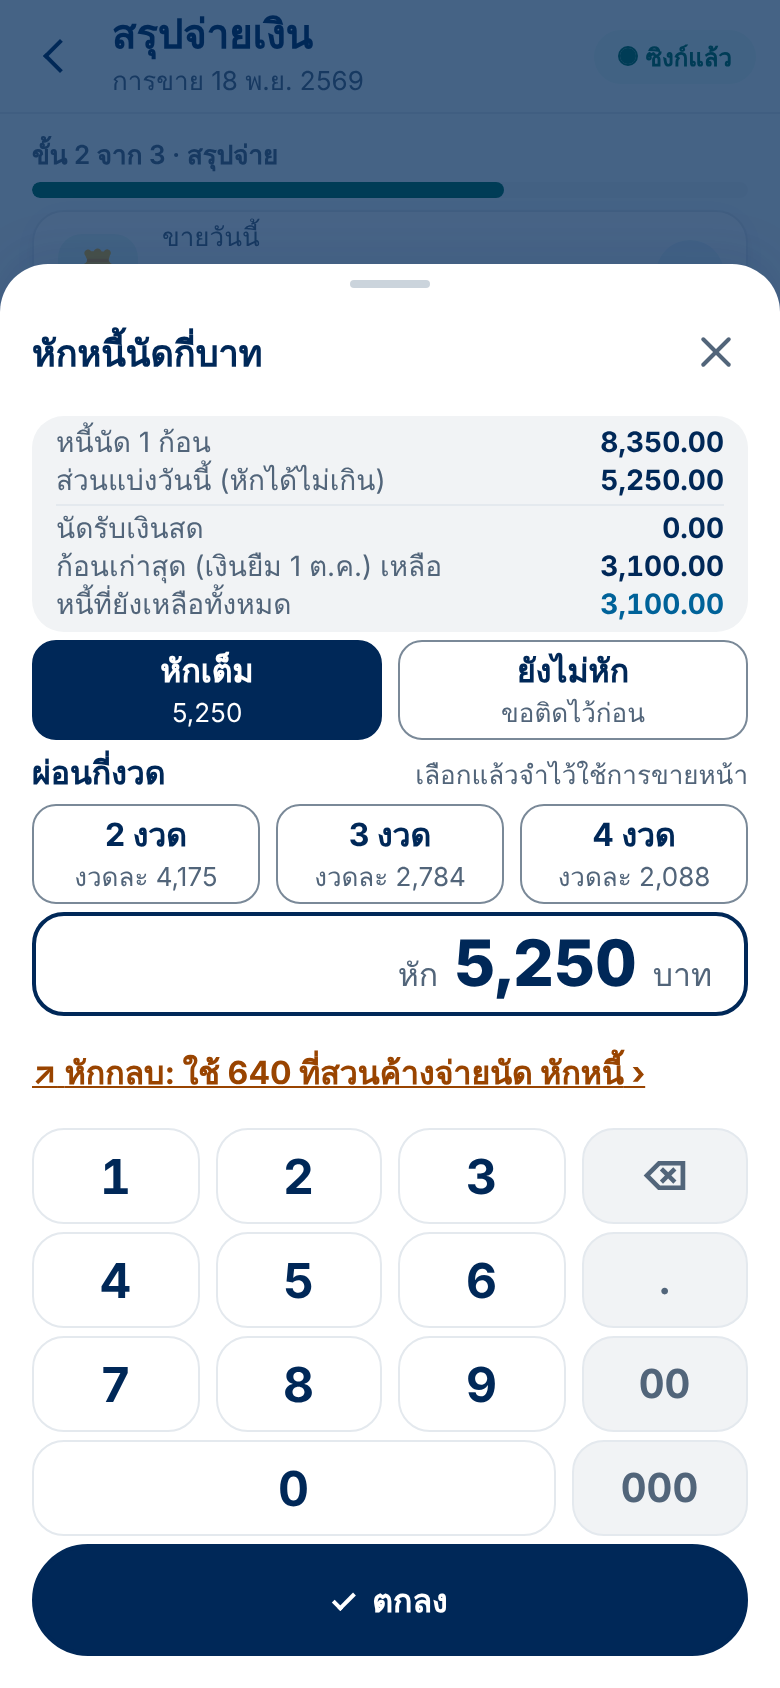
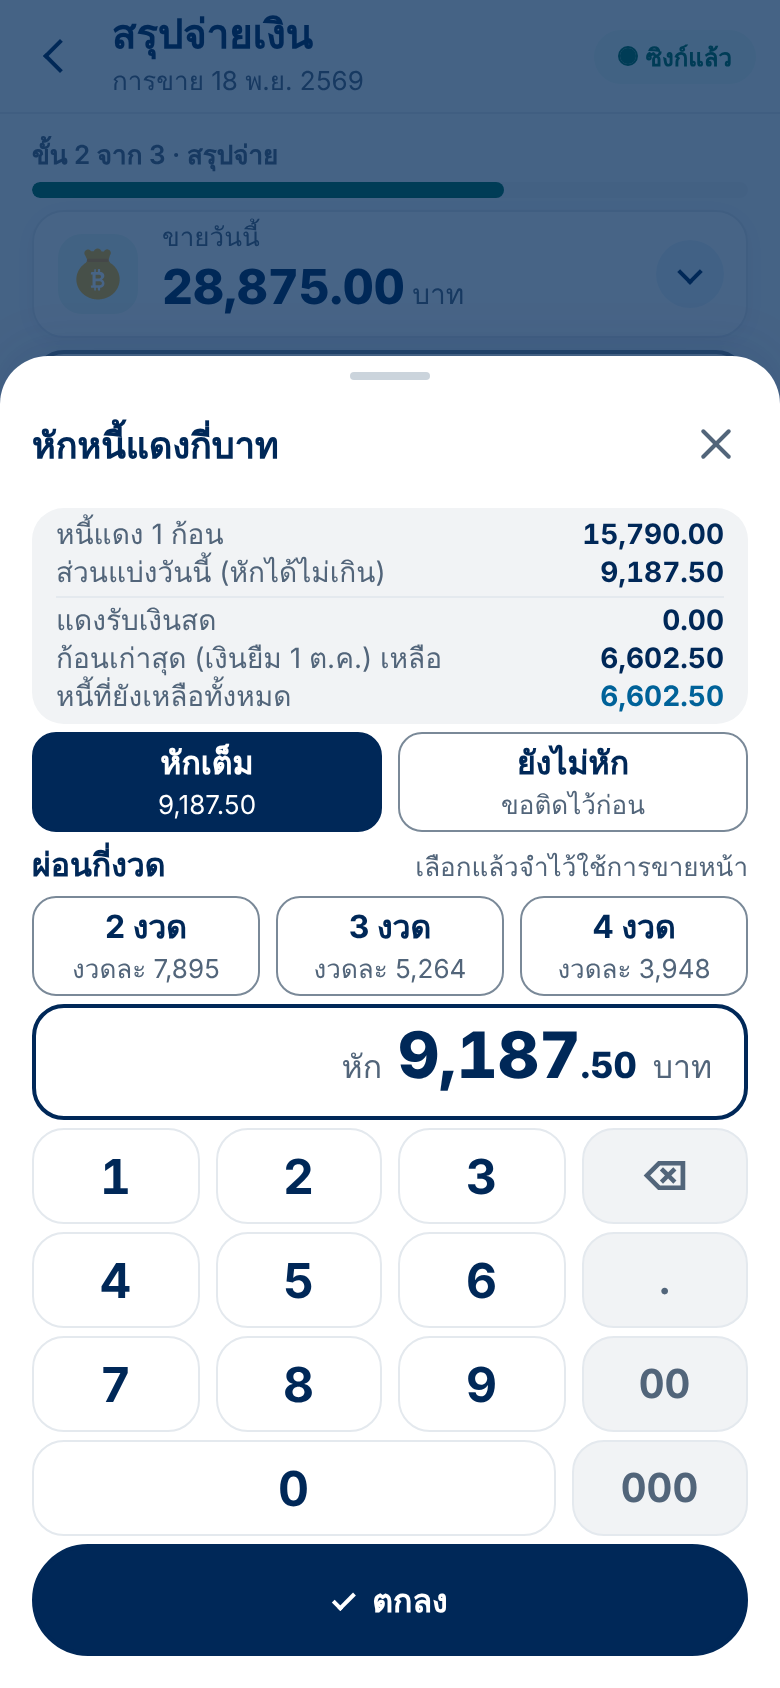
fix(sale): picked choice words always readable
E06-S10 review: Choice turns its own words to the inverse ink when picked, so a caller with a plain dark text (max-inst on sale settings) is not dark on dark; shots for short-share, new-debt, sale settings, account plan and a real หักเต็ม; story DS-8 line.

diff --git a/src/v2/sale/closeout/summary-installments.tsx b/src/v2/sale/closeout/summary-installments.tsx
@@ -11,7 +11,7 @@
  * the per-instalment amount on a re-split choice (`installmentAmount`, the same core rule).
  */
 
-import { createContext, useContext, type ReactNode } from 'react';
+import { Children, cloneElement, createContext, isValidElement, useContext, type ReactElement, type ReactNode } from 'react';
 import { Pressable, Text, View } from 'react-native';
 
 import type { CloseoutWorker } from '../../../core/finance/closeout';
@@ -131,6 +131,15 @@ export function ChoiceText({ children, small }: { children: ReactNode; small?: b
   );
 }
 
+/**
+ * The picked Choice is dark, so a caller's own words (a plain text with a set colour) must turn to the inverse ink
+ * here, in Choice, not in each caller: a text child's colour is replaced; a component child (CountChoice,
+ * ChoiceText) follows the context instead and ignores the extra style.
+ */
+function inverse(child: ReactElement<{ style?: unknown }>, color: string): ReactElement {
+  return cloneElement(child, { style: [child.props.style, { color }] });
+}
+
 /** A choice card ("3 งวด / งวดละ 4,267" or "รวมในงวดที่เหลือ"): a whole tap target, selected = dark with white words. */
 export function Choice({ testID, selected, onPress, children, basis = 90, grow = true }: { testID: string; selected: boolean; onPress: () => void; children: ReactNode; basis?: number; /** false: a fixed size, so a short last row is not stretched. */ grow?: boolean }) {
   const t = useTheme();
@@ -154,7 +163,7 @@ export function Choice({ testID, selected, onPress, children, basis = 90, grow =
         backgroundColor: selected ? t.color.action : t.color.surfaceRaised,
       }}
     >
-      <ChoicePicked.Provider value={selected}>{children}</ChoicePicked.Provider>
+      <ChoicePicked.Provider value={selected}>{selected ? Children.map(children, (c) => (isValidElement(c) ? inverse(c as ReactElement<{ style?: unknown }>, t.color.inkInverse) : c)) : children}</ChoicePicked.Provider>
     </Pressable>
   );
 }

diff --git a/docs/stories/e06-s10-deduct-sheet-match-mockup.md b/docs/stories/e06-s10-deduct-sheet-match-mockup.md
@@ -47,7 +47,7 @@ Status: Review (owner agreed AC 2026-11-18 · แดชบอร์ด answers/e
 ## Verification
 
 - [x] Sandbox run performed: 2026-11-17 เว็บบิลด์จริง 390×844 M: ปุ่ม ตกลง อยู่ y=828 (ไม่มีแผน) / 832 (เลือก 3 งวด) ภายใน 844 · L เลื่อนได้ (ตกลง y=858–867 ที่ 390, 909–920 ที่ 360) ไม่มีอะไรถูกตัด ปุ่มทุกอัน ≥ 48 · jest 1239 · vitest 1523 · e2e v2-sale/v2-pending-repay/v2-text-size 43 ผ่าน · DS-7 ใช้ NumberPad แบบ compact (ปุ่ม 48) ใช้เฉพาะแผ่นนี้
-- [x] Screenshots: `docs/ux/screenshots/e06-s10/` 390-m-0-open (ไม่มีแผน) · 390-m-1-picked (เลือก 3 งวด) · 390-m-2-full · 390-m-3-none · 390-m-4-running (มีแผนอยู่) · 390-m-5-resplit (แบ่งงวดที่เหลือใหม่ เลือก 4 งวด = สีเข้ม) · ยังไม่ได้ถ่ายใหม่: ส่วนแบ่งไม่พอ / หนี้ใหม่ (ปุ่มเลือกเปลี่ยนเป็นสีเข้มเหมือนกัน ตรวจด้วย jest)
+- [x] Screenshots: `docs/ux/screenshots/e06-s10/` (390×844 M, build จริง) 0-open (ไม่มีแผน) · 1-picked (เลือก 3 งวด) · 2-full (หักเต็ม ของแดง เลือกแล้วสีเข้ม; ของนัดตอนเปิดแผ่นคือ หักเต็มอยู่แล้วจึงเหมือน 0-open) · 3-none · 4-running (มีแผนอยู่) · 5-resplit · 6-short (ส่วนแบ่งไม่พอ) · 7-newdebt (หนี้ใหม่ เลือกรวมในงวดที่เหลือ) · 8-sale-settings-maxinst (ตั้งค่าวันขาย เลือก 6) · 9-debt-plan (แผนผ่อนในบัญชีหนี้ เลือก 3 งวด) · Choice ใช้ร่วมกัน 3 จอ จึงถ่ายทั้งหมด
 
 ## Code review
 
